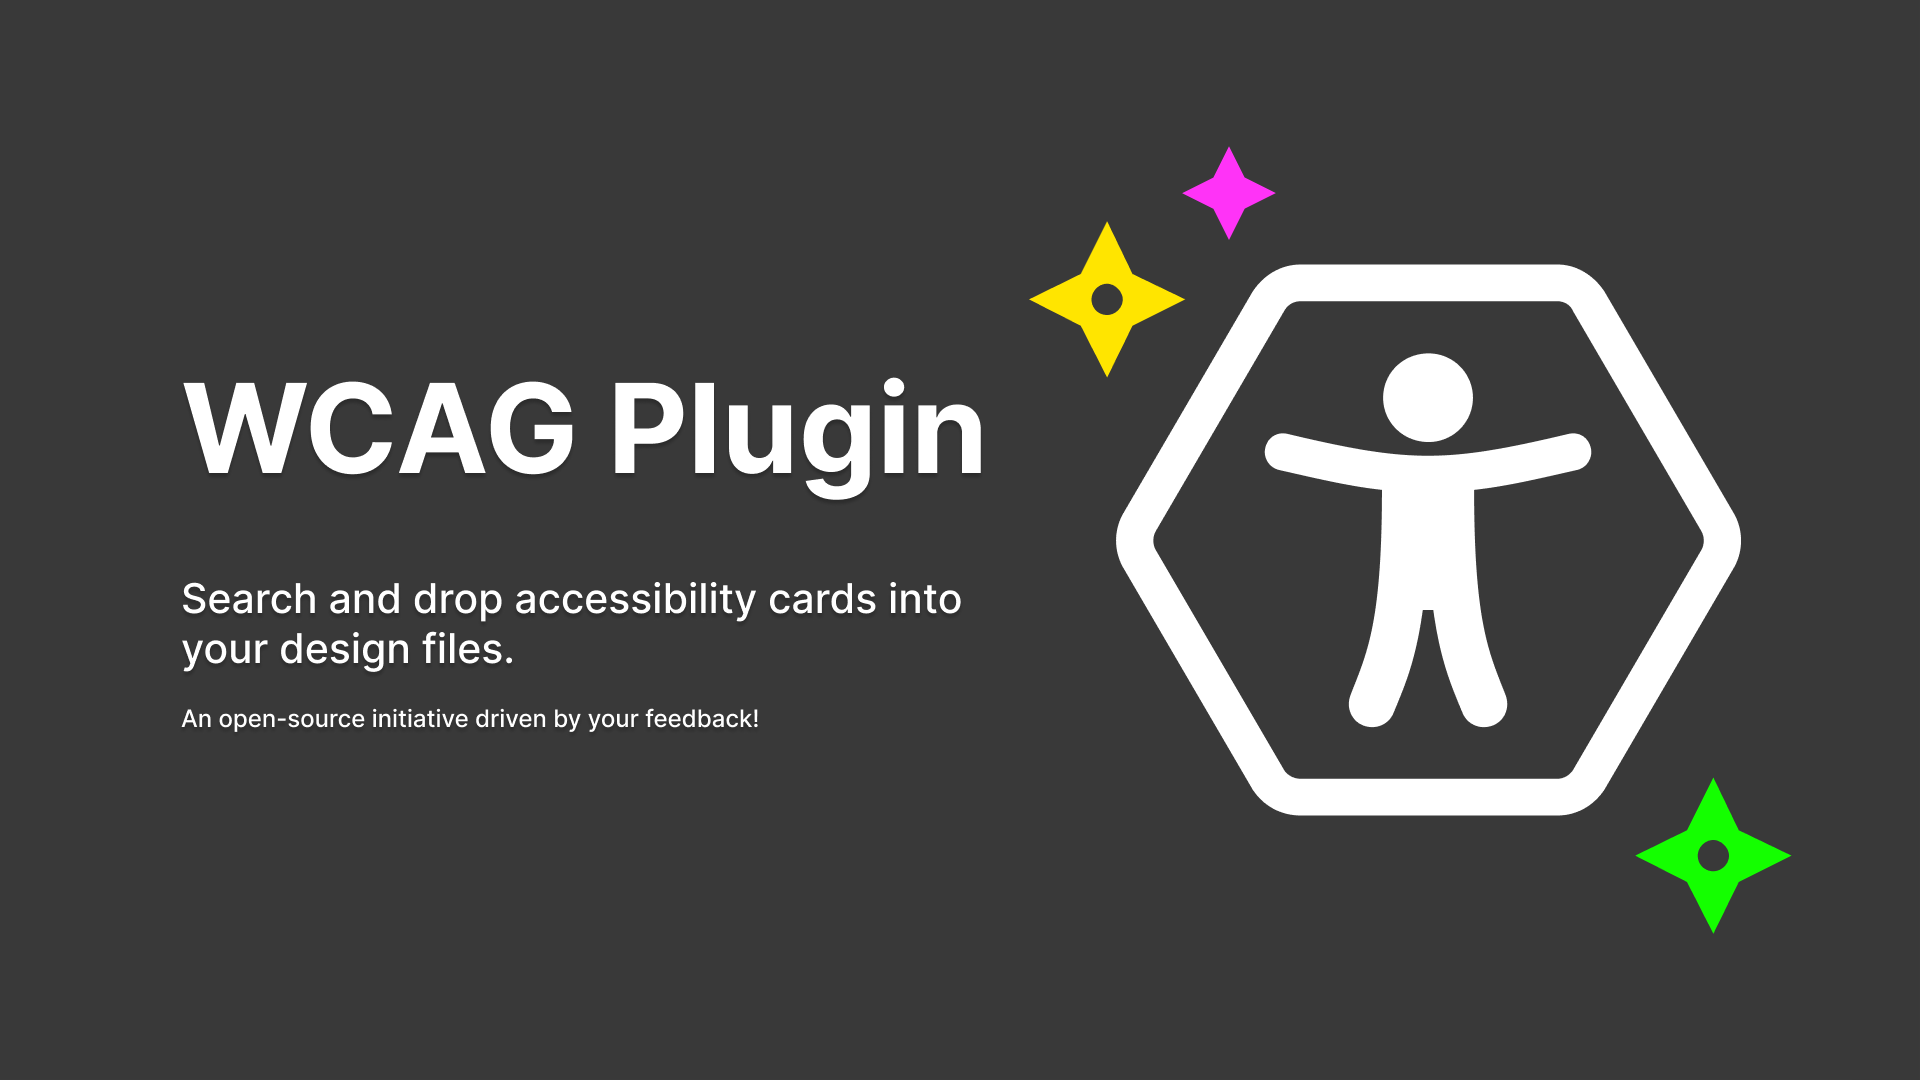
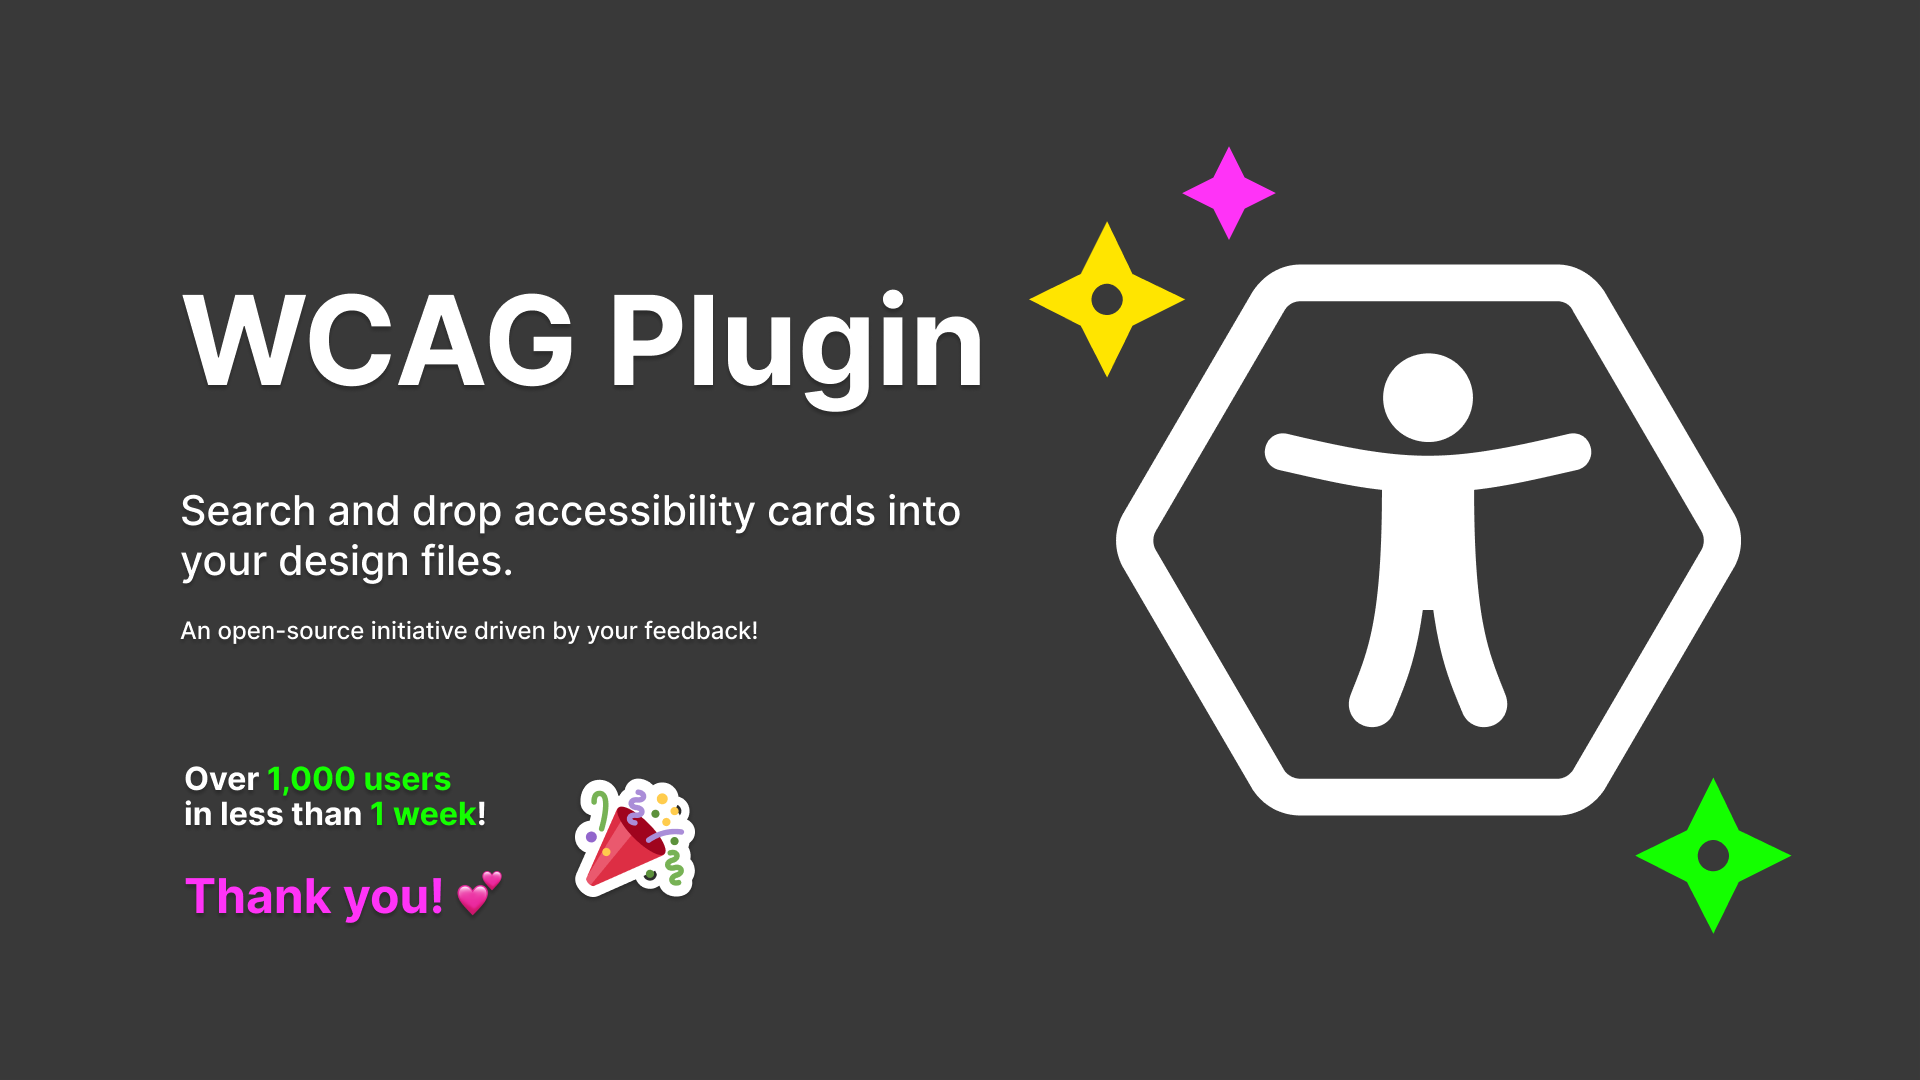
project page

diff --git a/_projects/2024-05-25-wcag-plugin.md b/_projects/2024-05-25-wcag-plugin.md
@@ -1,10 +1,19 @@
 ---
 title: WCAG Plugin for Figma
-subtitle: "Improving the UX for people with disabilities by eliminating the use of Lorem Ipsum in the design industry."
+subtitle: "Enhance your design accessibility with integrated WCAG guidelines."
 
 date: 2024-05-25 00:00:02
-brief: I created a pioneering method to transform digital content blocks into fully accessible prototypes. Check it out at <a href="https://nolatin.com" target="_blank">nolatin.com</a>
-description: If designers continue to use 'Loren Ipsum' placeholders in early design concepts, people with disabilities will continue to be excluded from early user research studies.
+brief: Streamline your design process with tools to find, annotate, and implement accessibility guidelines directly within Figma. Check it out and run it on <a href="https://www.figma.com/community/plugin/1373362852131056921/wcag-plugin" target="_blank">Figma Community</a>.
+description: "This plugin enhances the accessibility of digital designs by integrating accessibility guidelines directly into your design processes and systems. The WCAG Plugin offers three key features: 
+
+- 🔎 Guideline Search - Quickly find relevant guidelines as a conversation starter and to ensure your designs are providing an equitable experience for all users.
+
+- 🗂 Notation Cards - Annotate Figma design files with WCAG guideline cards to increase your knowledge of accessibility requirements and best practices.
+
+- 🔧 Utility Tokens - Import accessibility utility tokens as Figma variables to ensure accessible design decisions across various design elements and components.
+
+Free and open-source: This plugin is free and open-source, driven by a community of passionate contributors dedicated to making digital design more accessible for everyone."
+
 featured_image: nolatin-figma-01.png
 accent_color: "#14FF00"
 case_study: true
